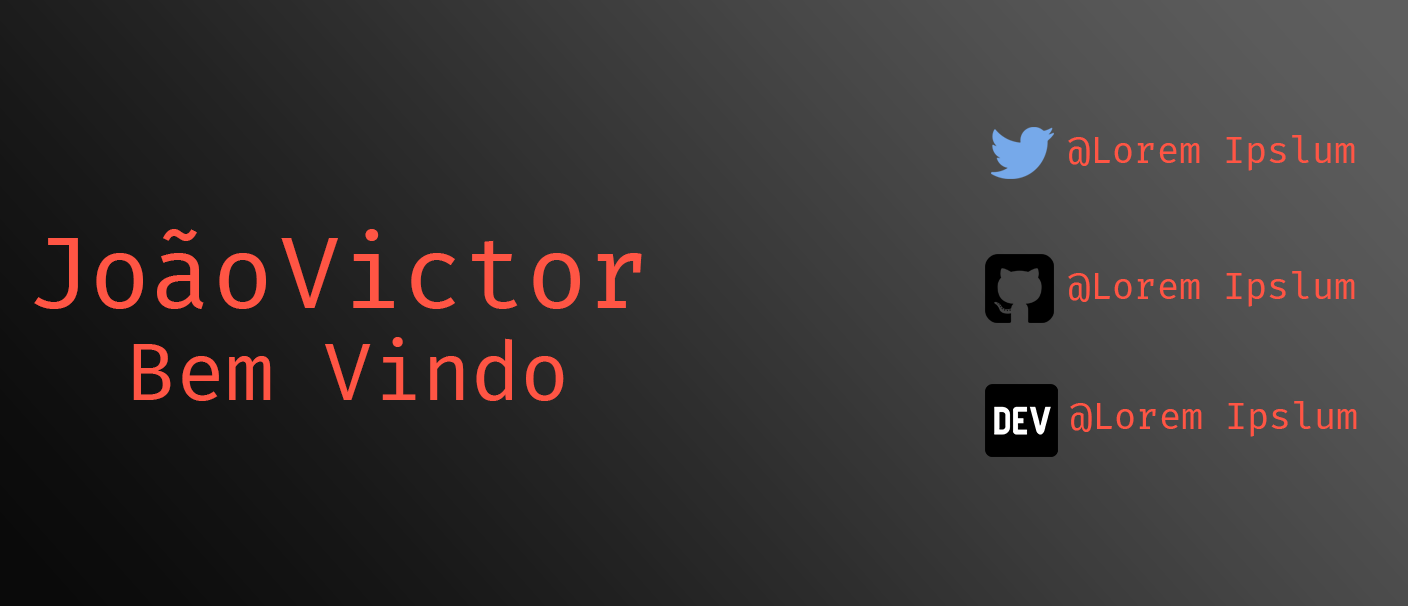
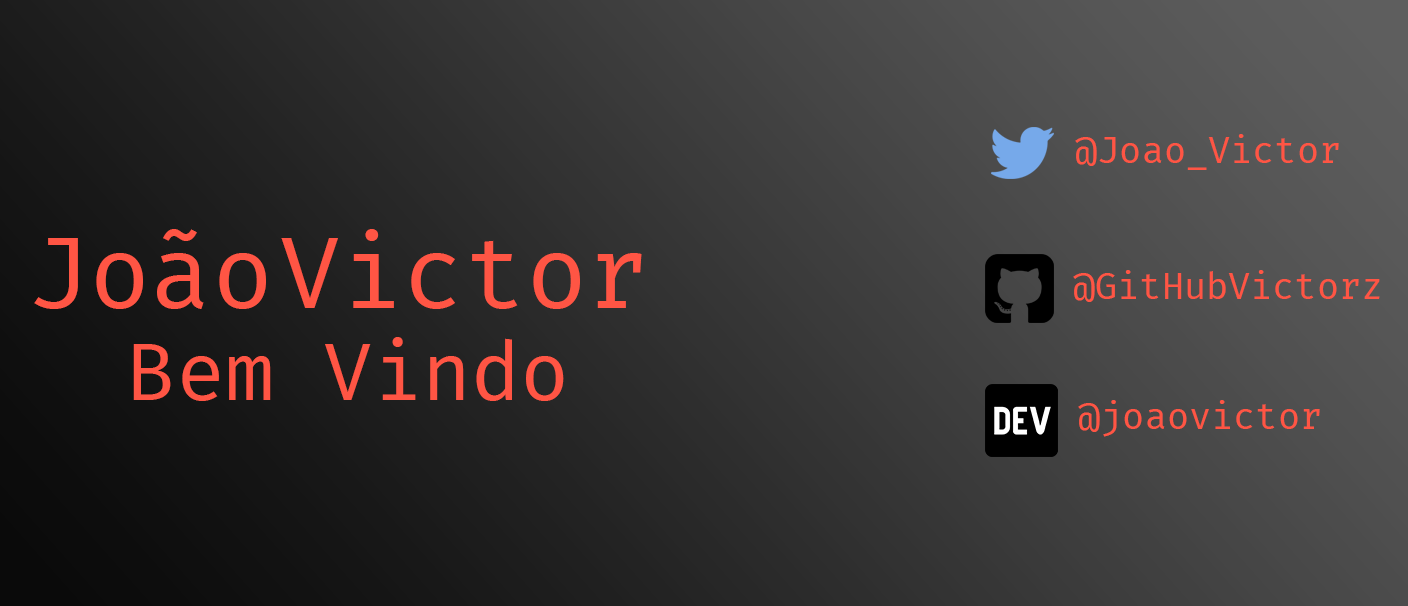
add new files

Changed region(s): [[0.75, 0.4455, 1.0, 0.505], [0.75, 0.6535, 0.9688, 0.7129], [0.75, 0.2079, 0.9688, 0.2673]]

diff --git a/README.md b/README.md
@@ -31,7 +31,7 @@
 	<br>
 	<a href="#EM PRODUÇÃO"><img src="img/linkdin.svg"/></a>
 	<br>
-	<a href="https://twitter.com/Joao_Victorzz"><img src="img/twitter-3.svg"/></a>
+	<a href="https://twitter.com/Joao_Victorzz"><img src="img/twitter.svg"/></a>
 	<br>
 </p>
 ⭐ From [JoãoVictor](https://github.com/GitHubVictorzz)
